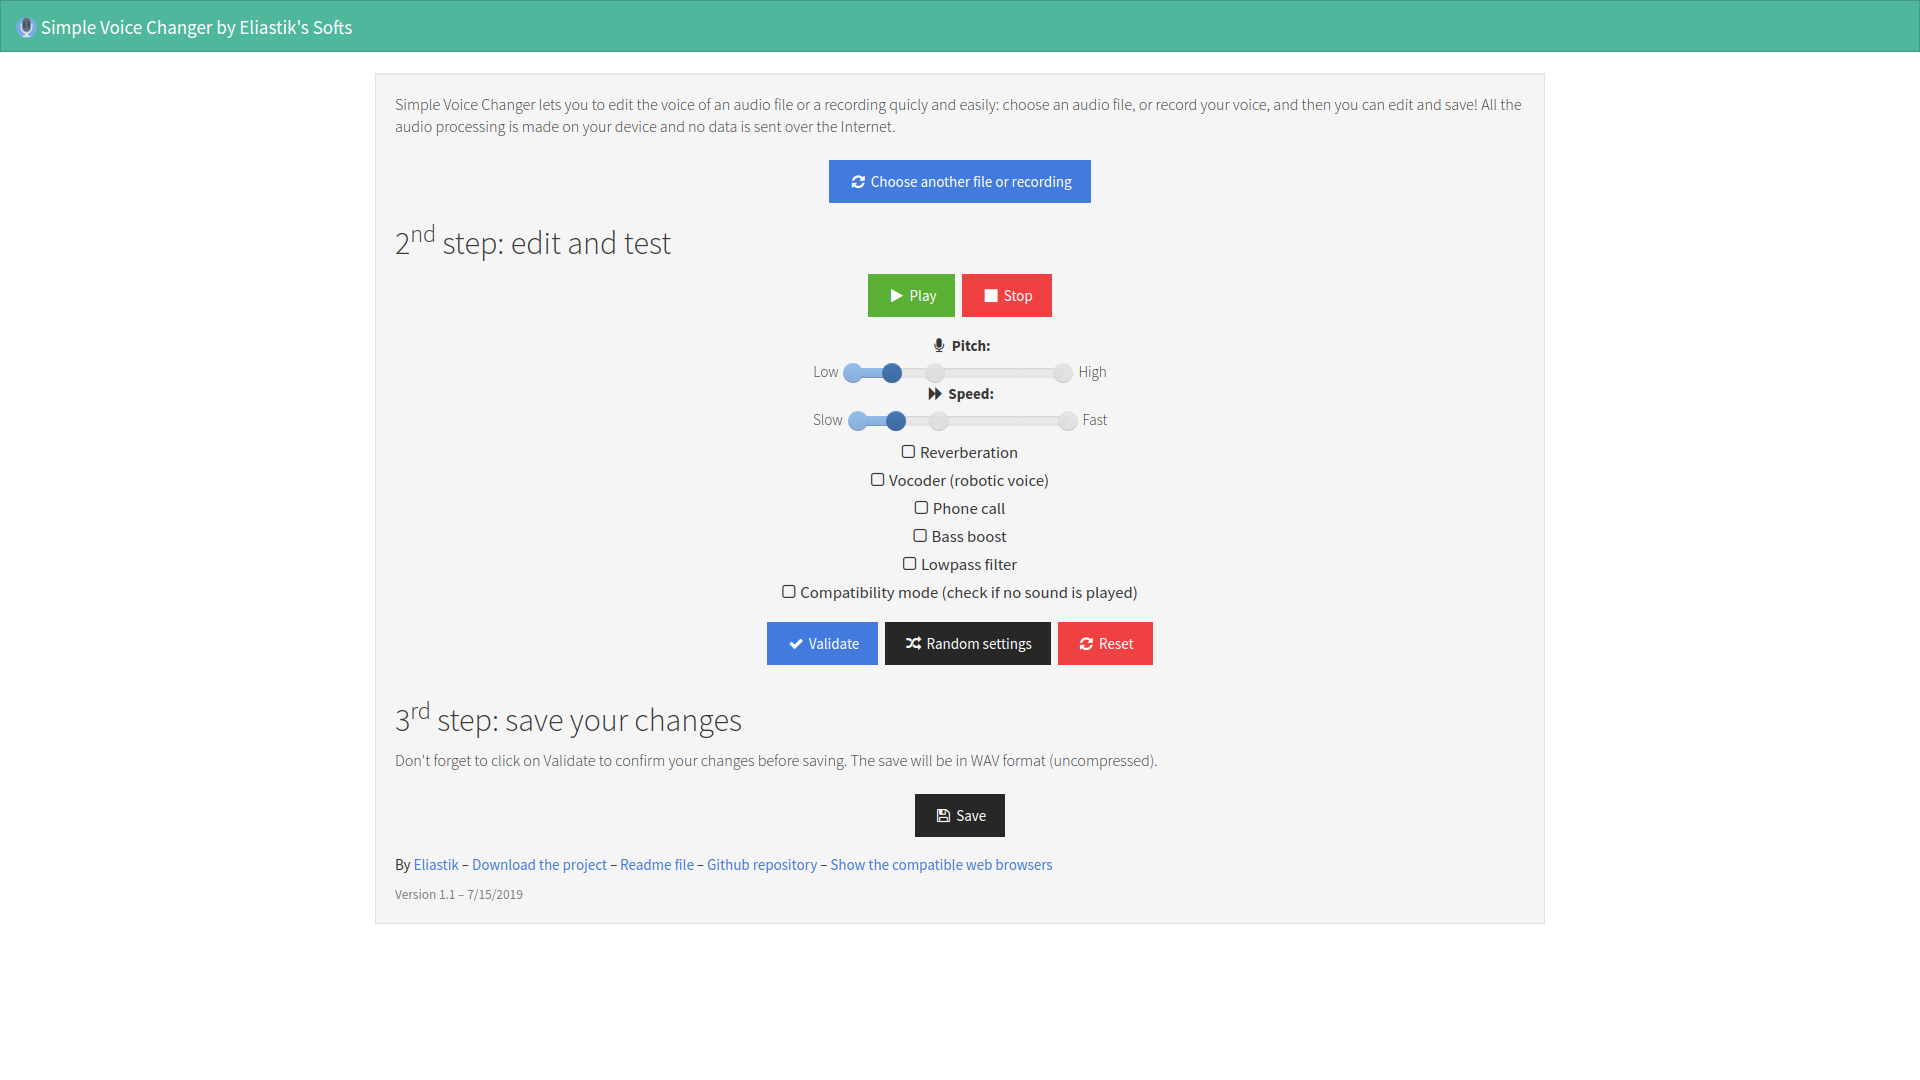
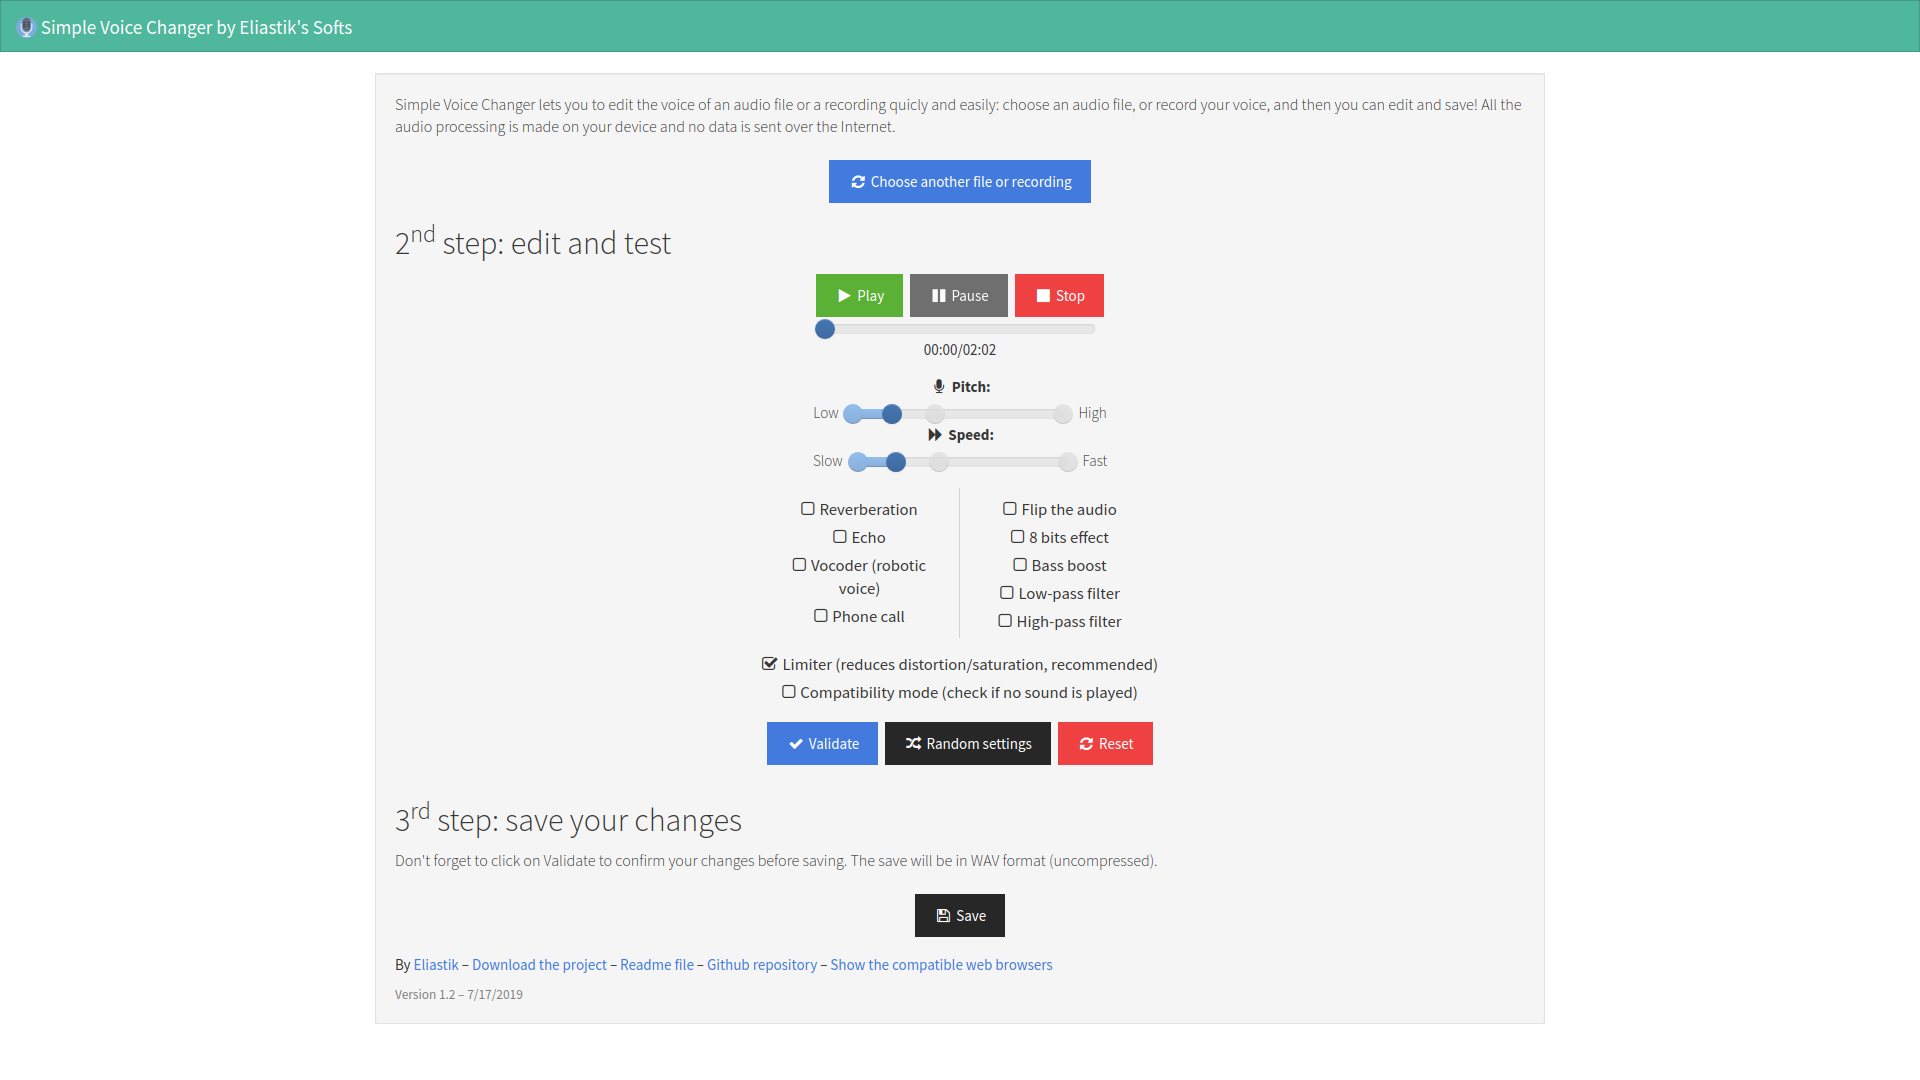
Fixes + Version 1.2 + updated screnshot

Changed region(s): [[0.1875, 0.2444, 0.625, 0.9472], [0.5625, 0.3667, 0.5938, 0.3972]]

diff --git a/assets/locales/data.js b/assets/locales/data.js
@@ -194,7 +194,7 @@ i18next.addResourceBundle("en", "translation", {
     "title": "step bis: record your voice",
     "error": "An error has occurred when connecting to the input device. Make sure that you have allowed the access and that you have a connected and working input device, then retry.",
     "info": "Allow the access to the microphone on the notification that appeared on your web browser.",
-    "description": "You can now record your voice with your microphone. Press Start to begin, and press Stop when you finish to begin to edit your voice. You can also pause your recording when you want.",
+    "description": "You can now record your voice with your microphone. Press Start to begin, and press Stop when you have finished to begin to edit your voice. You can also pause your recording when you want.",
     "audioFeedback": "Audio feedback",
     "start": "Start",
     "pause": "Pause",
@@ -222,10 +222,10 @@ i18next.addResourceBundle("en", "translation", {
     "reverb": "Reverberation",
     "echo": "Echo",
     "vocoder": "Vocoder (robotic voice)",
-    "returnAudio": "Return the audio",
+    "returnAudio": "Flip the audio",
     "bitCrusher": "8 bits effect",
-    "lowpass": "Lowpass filter",
-    "highpass": "Highpass filter",
+    "lowpass": "Low-pass filter",
+    "highpass": "High-pass filter",
     "bassboost": "Bass boost",
     "phone": "Phone call",
     "limiter": "Limiter (reduces distortion/saturation, recommended)",

diff --git a/assets/js/main.js b/assets/js/main.js
@@ -33,8 +33,8 @@ compaModeStopSave = function() { return false };
 // Settings
 var filesDownloadName = "simple_voice_changer";
 var audioArray = ["assets/sounds/impulse_response.wav", "assets/sounds/modulator.mp3"]; // audio to be loaded when launching the app
-var app_version = "1.1";
-var app_version_date = "2019-7-15";
+var app_version = "1.2";
+var app_version_date = "2019-7-17";
 var updater_uri = "https://www.eliastiksofts.com/simple-voice-changer/update.php"
 // End of the settings
 

diff --git a/README.md b/README.md
@@ -13,7 +13,7 @@ This program uses the Web Audio API. A browser supporting this API is therefore 
 
 ## About
 
-* Version: 1.1 (7/15/2019)
+* Version: 1.2 (7/17/2019)
 * Made in France by Eliastik - [eliastiksofts.com](http://eliastiksofts.com) - Contact : [eliastiksofts.com/contact](http://eliastiksofts.com/contact)
 * License: GNU GPLv3 (see the LICENCE.txt file)
 
@@ -32,22 +32,31 @@ This program uses the Web Audio API. A browser supporting this API is therefore 
 
 ## Changelog
 
-* Version 1.1 (7/15/2019) :
+* Version 1.2 (7/17/2019):
+    - Added new filters: Echo, Flip the audio, 8 bits effect and High-pass filter;
+    - Added an audio limiter (which replaces the audio compressor and works better) to reduce distortion and saturation;
+    - Added a Pause button, a playback slider as well as the total length of the audio in minutes:seconds and the elapsed playing time for step 2 (not available in compatibility mode);
+    - The Stop button when playing audio (step 2) is now available in compatibility mode;
+    - Added a progress bar when saving changes and added the ability to cancel the save (third step) if compatibility mode is enabled;
+    - Reverb filter enhanced (Impulse Response audio file changed);
+    - Bug fixes and other adjustments.
+
+* Version 1.1 (7/15/2019):
     - Integration of the i18next translation engine and translation of the application into English;
     - Added an update module;
     - Added new effects: Phone Call, Bass Boost and Lowpass Filter;
     - Added a compressor to limit saturation;
     - Bug fixes, code simplifications, libraries update, other adjustments.
 
-* Version 1.0.3 (4/26/2019) :
+* Version 1.0.3 (4/26/2019):
     - Step 2: Added random settings and reset settings.
 
-* Version 1.0.2 (4/23/2019) :
+* Version 1.0.2 (4/23/2019):
     - Better detection of data loading errors;
     - Updated library (Bootstrap Native);
     - Bug fixes, text adjustments and other adjustments.
 
-* Version 1.0.1 (10/04/2019) :
+* Version 1.0.1 (10/04/2019):
     - Addition of a timer when recording via the microphone;
     - Display a confirmation message when refreshing/closing the application;
     - Bug fixes and adjustments.
@@ -66,7 +75,7 @@ Ce programme utilise la Web Audio API. Un navigateur supportant cette API est do
 
 ## À propos du programme
 
-* Version du programme : 1.1 (15/07/2019)
+* Version du programme : 1.2 (17/07/2019)
 * Made in France by Eliastik - [eliastiksofts.com](http://eliastiksofts.com) - Contact : [eliastiksofts.com/contact](http://eliastiksofts.com/contact)
 * Licence : GNU GPLv3 (voir le fichier LICENCE.txt)
 
@@ -84,6 +93,15 @@ Ce programme utilise la Web Audio API. Un navigateur supportant cette API est do
 * Utilise [une icône](https://www.flaticon.com/free-icon/microphone_204320) réalisée par [Prosymbols](https://www.flaticon.com/authors/prosymbols) de [www.flaticon.com](https://www.flaticon.com/) sous licence [CC 3.0 BY](http://creativecommons.org/licenses/by/3.0/)
 
 ## Journal des changements
+
+* Version 1.2 (17/07/2019) :
+    - Ajout de nouveaux filtres : Écho, Retourner l'audio, Effet 8 bits et Filtre passe-haut ;
+    - Ajout d'un limiteur audio (qui remplace le compresseur audio et qui fonctionne mieux) pour réduire la distorsion et la saturation ;
+    - Ajout d'un bouton Pause, d'un curseur de lecture ainsi que de la longueur totale de l'audio en minutes:secondes ainsi que du temps de lecture écoulé pour l'étape 2 (non disponible en mode de compatibilité) ;
+    - Le bouton Stop lors de la lecture de l'audio (étape 2) est désormais disponible en mode de compatibilité ;
+    - Ajout d'une jauge de progression lors de l'enregistrement des modifications et ajout de la possibilité d'annuler l'enregistrement (troisième étape) si le mode de compatibilité est activé ;
+    - Amélioration du filtre Réverbération (fichier audio Impulse Response changé) ;
+    - Corrections de bugs et autres ajustements.
 
 * Version 1.1 (15/07/2019) :
     - Intégration du moteur de traduction i18next et traduction de l'application en anglais ;
